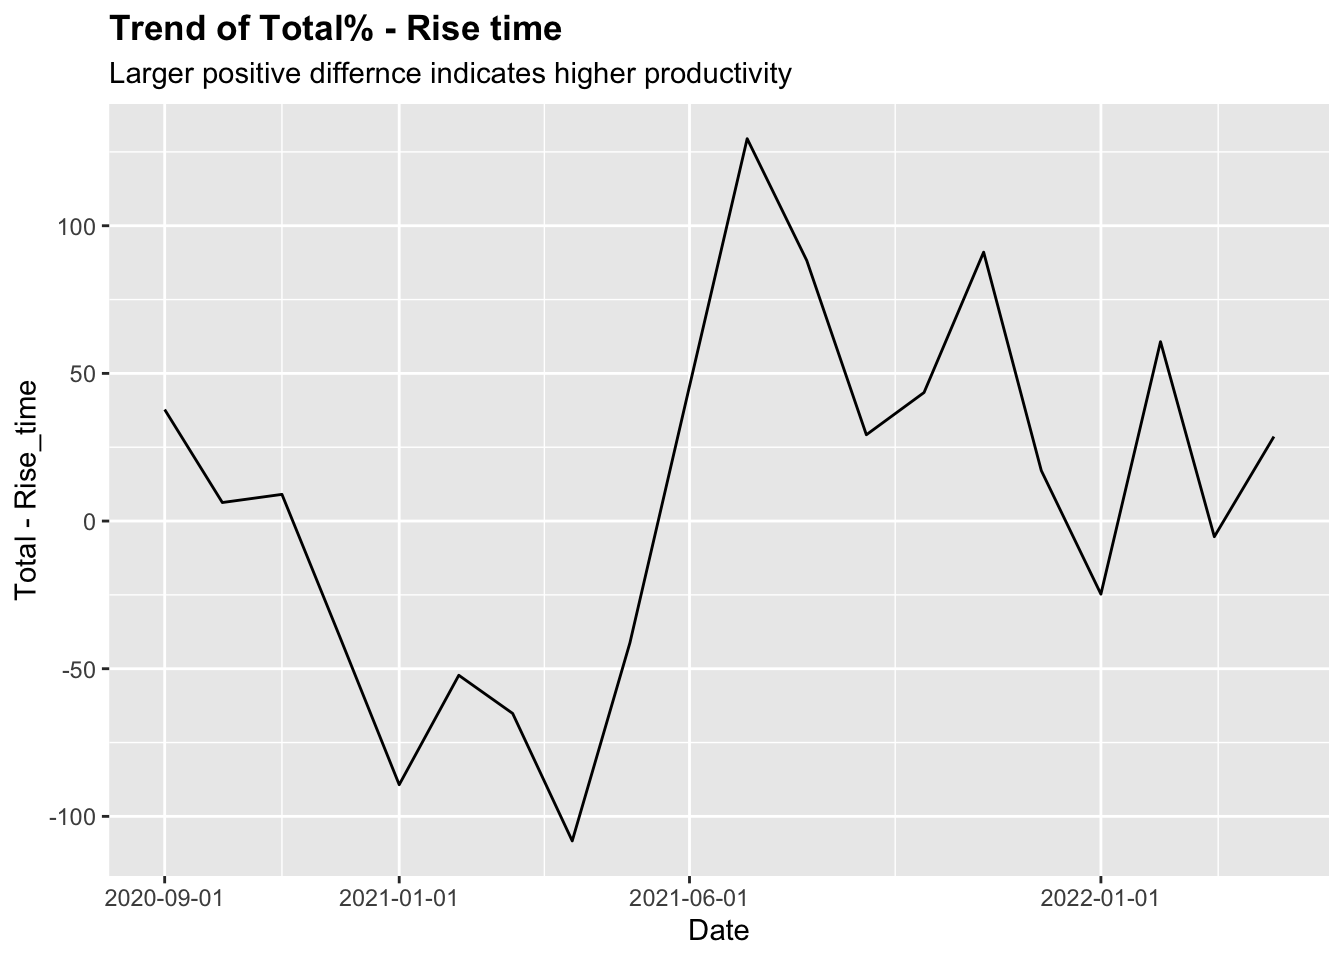
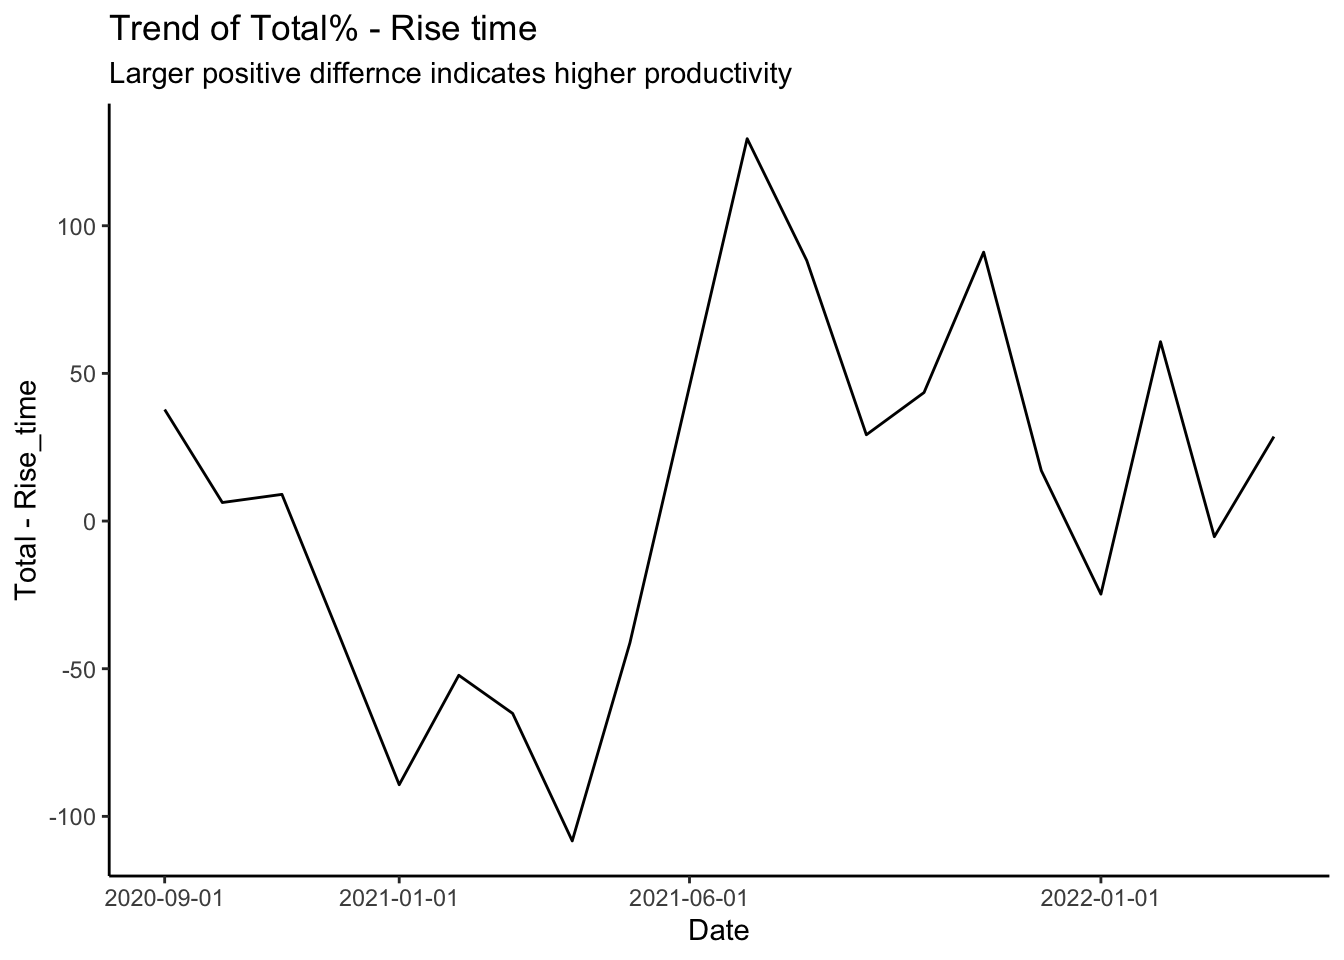
theme classic

diff --git a/selfeval_main.html b/selfeval_main.html
@@ -448,7 +448,8 @@ pairs.panels(correlation_plot, lm = TRUE)</code></pre>
   labs(title = &quot;Density Plot of Work Finished% for different School periods&quot;,
        x = &quot;Work Finished (%)&quot;)+
   theme(plot.title = element_text(face = &quot;bold&quot;)) +
-  scale_color_discrete(name = &quot;School Qtrs&quot;)</code></pre>
+  scale_color_discrete(name = &quot;School Qtrs&quot;)+
+  theme_classic()</code></pre>
 <p><img src="selfeval_main_files/figure-html/unnamed-chunk-6-1.png" width="672" /> <br><br />
 <br><br />
 <br></p>
@@ -464,7 +465,8 @@ ggplot(data = all_dat)+
   labs(title = &quot;Work finished % by week days&quot;,
        subtitle = &quot;Data: all_dat (500+ observations)&quot;,
        x = &quot;&quot;, y = &quot;Work Finished (%)&quot;)+
-  theme(plot.title = element_text(face = &quot;bold&quot;))</code></pre>
+  theme(plot.title = element_text(face = &quot;bold&quot;))+
+  theme_classic()</code></pre>
 <p><img src="selfeval_main_files/figure-html/unnamed-chunk-7-1.png" width="672" /> <br><br />
 <br></p>
 </div>
@@ -486,7 +488,8 @@ ggplot(all_dat_month)+
   theme(plot.title = element_text(face = &quot;bold&quot;)) +
   scale_x_continuous(breaks = ymd(&quot;2020-09-01&quot;, &quot;2021-01-01&quot;,&quot;2021-04-01&quot;, &quot;2021-07-01&quot;, &quot;2021-10-01&quot;,&quot;2022-01-01&quot;, &quot;2022-04-01&quot;),
                      labels=c(&quot;09/20&quot;, &quot;01/21&quot;, &quot;04/21&quot;, &quot;07/21&quot;, 
-                                &quot;10/21&quot;, &quot;01/22&quot;,&quot;04/22&quot;))</code></pre>
+                                &quot;10/21&quot;, &quot;01/22&quot;,&quot;04/22&quot;))+
+  theme_classic()</code></pre>
 <p><img src="selfeval_main_files/figure-html/unnamed-chunk-8-1.png" width="672" /></p>
 <p><br><br />
 <br></p>
@@ -499,7 +502,8 @@ ggplot(all_dat_month)+
               subtitle = &quot;Larger positive differnce indicates higher productivity&quot;)+
   theme(plot.title = element_text(face = &quot;bold&quot;)) +
   scale_x_continuous(breaks = ymd(&quot;2020-09-01&quot;, &quot;2021-01-01&quot;, &quot;2021-06-01&quot;,
-                                &quot;2022-01-01&quot;))</code></pre>
+                                &quot;2022-01-01&quot;))+
+  theme_classic()</code></pre>
 <p><img src="selfeval_main_files/figure-html/unnamed-chunk-9-1.png" width="672" /> <br></p>
 <ul>
 <li><font size="3">Note for Rise time:
@@ -649,13 +653,13 @@ rmarkdown::paged_table(pretty_lm)</code></pre>
 </ul></li>
 </ul>
 <pre class="r"><code>model &lt;- lm(work_finished ~ Screen_time + Meditation + Rise_time + Phone_pickups + 
-              Reading + Drink + Total_todo + Multiple,  data = all_dat)
+              Reading + Drink + Total_todo + Social,  data = all_dat)
 
 pretty_lm &lt;- prettify(summary(model))
 rmarkdown::paged_table(pretty_lm)</code></pre>
 <div data-pagedtable="false">
 <script data-pagedtable-source type="application/json">
-{"columns":[{"label":[" "],"name":[1],"type":["chr"],"align":["left"]},{"label":["Estimate"],"name":[2],"type":["dbl"],"align":["right"]},{"label":["CI (lower)"],"name":[3],"type":["dbl"],"align":["right"]},{"label":["CI (upper)"],"name":[4],"type":["dbl"],"align":["right"]},{"label":["Std. Error"],"name":[5],"type":["dbl"],"align":["right"]},{"label":["t value"],"name":[6],"type":["dbl"],"align":["right"]},{"label":["Pr(>|t|)"],"name":[7],"type":["chr"],"align":["left"]},{"label":["   "],"name":[8],"type":["noquote"],"align":["right"]}],"data":[{"1":"(Intercept)","2":"1.997604e-01","3":"0.0903117125","4":"3.092091e-01","5":"5.569333e-02","6":"3.5867922","7":"<0.001","8":"***"},{"1":"Screen_time","2":"-5.860220e-05","3":"-0.0001813896","4":"6.418517e-05","5":"6.248076e-05","6":"-0.9379239","7":"0.349","8":""},{"1":"Meditation","2":"1.178700e-02","3":"0.0097496004","4":"1.382440e-02","5":"1.036738e-03","6":"11.3693168","7":"<0.001","8":"***"},{"1":"Rise_time","2":"-2.037900e-04","3":"-0.0003598218","4":"-4.775830e-05","5":"7.939727e-05","6":"-2.5667135","7":"0.011","8":"*"},{"1":"Phone_pickups","2":"7.793601e-05","3":"-0.0003703018","4":"5.261738e-04","5":"2.280873e-04","6":"0.3416938","7":"0.733","8":""},{"1":"Reading","2":"2.530312e-03","3":"0.0016379954","4":"3.422628e-03","5":"4.540580e-04","6":"5.5726613","7":"<0.001","8":"***"},{"1":"Drink","2":"-4.905697e-02","3":"-0.0718848394","4":"-2.622910e-02","5":"1.161604e-02","6":"-4.2232110","7":"<0.001","8":"***"},{"1":"Total_todo","2":"4.337842e-03","3":"-0.0005697259","4":"9.245411e-03","5":"2.497232e-03","6":"1.7370600","7":"0.083","8":"."},{"1":"Multiple","2":"1.049627e-01","3":"0.0891593216","4":"1.207660e-01","5":"8.041577e-03","6":"13.0524960","7":"<0.001","8":"***"}],"options":{"columns":{"min":{},"max":[10]},"rows":{"min":[10],"max":[10]},"pages":{}}}
+{"columns":[{"label":[" "],"name":[1],"type":["chr"],"align":["left"]},{"label":["Estimate"],"name":[2],"type":["dbl"],"align":["right"]},{"label":["CI (lower)"],"name":[3],"type":["dbl"],"align":["right"]},{"label":["CI (upper)"],"name":[4],"type":["dbl"],"align":["right"]},{"label":["Std. Error"],"name":[5],"type":["dbl"],"align":["right"]},{"label":["t value"],"name":[6],"type":["dbl"],"align":["right"]},{"label":["Pr(>|t|)"],"name":[7],"type":["chr"],"align":["left"]},{"label":["   "],"name":[8],"type":["noquote"],"align":["right"]}],"data":[{"1":"(Intercept)","2":"0.5864830617","3":"0.4790888995","4":"0.6938772240","5":"5.464787e-02","6":"10.7320382","7":"<0.001","8":"***"},{"1":"Screen_time","2":"-0.0003790691","3":"-0.0005103351","4":"-0.0002478032","5":"6.679509e-05","6":"-5.6751050","7":"<0.001","8":"***"},{"1":"Meditation","2":"0.0145606478","3":"0.0122639331","4":"0.0168573625","5":"1.168691e-03","6":"12.4589391","7":"<0.001","8":"***"},{"1":"Rise_time","2":"-0.0003861481","3":"-0.0005636416","4":"-0.0002086547","5":"9.031814e-05","6":"-4.2754219","7":"<0.001","8":"***"},{"1":"Phone_pickups","2":"0.0001372521","3":"-0.0003782202","4":"0.0006527243","5":"2.622997e-04","6":"0.5232643","7":"0.601","8":""},{"1":"Reading","2":"0.0027858640","3":"0.0017436800","4":"0.0038280480","5":"5.303188e-04","6":"5.2531877","7":"<0.001","8":"***"},{"1":"Drink","2":"-0.0683266558","3":"-0.0942489707","4":"-0.0424043409","5":"1.319066e-02","6":"-5.1799289","7":"<0.001","8":"***"},{"1":"Total_todo","2":"0.0080372735","3":"0.0023169055","4":"0.0137576415","5":"2.910828e-03","6":"2.7611639","7":"0.006","8":"**"},{"1":"Social","2":"-0.0212346300","3":"-0.0302691361","4":"-0.0122001239","5":"4.597238e-03","6":"-4.6189971","7":"<0.001","8":"***"}],"options":{"columns":{"min":{},"max":[10]},"rows":{"min":[10],"max":[10]},"pages":{}}}
   </script>
 </div>
 <p><br><br />
@@ -683,7 +687,7 @@ ggplot(data = all_dat, aes(x = pred_work_finished, y = work_finished)) +
 <ul>
 <li>Systematic Error can be observed
 <ul>
-<li>NOT a perfect prediction model, but the the model is reasonable</li>
+<li>NOT a perfect prediction model, but the the model is reasonably accurate</li>
 </ul></li>
 </ul>
 <p><br></p>
@@ -707,7 +711,8 @@ ggplot(data = all_dat) +
   scale_x_continuous(breaks = ymd(&quot;2020-09-01&quot;, &quot;2021-01-01&quot;,&quot;2021-04-01&quot;, &quot;2021-07-01&quot;, &quot;2021-10-01&quot;,&quot;2022-01-01&quot;, &quot;2022-04-01&quot;),
                      labels=c(&quot;09/20&quot;, &quot;01/21&quot;, &quot;04/21&quot;, &quot;07/21&quot;, 
                                 &quot;10/21&quot;, &quot;01/22&quot;,&quot;04/22&quot;))+
-  labs(title = &quot;Time Seires&quot;, subtitle = &quot;Total (%)&quot;)</code></pre>
+  labs(title = &quot;Time Seires&quot;, subtitle = &quot;Total (%)&quot;)+
+  theme_classic()</code></pre>
 <p><img src="selfeval_main_files/figure-html/unnamed-chunk-18-1.png" width="672" /></p>
 <pre class="r"><code>myts &lt;- ts(all_dat$Total, start=c(2020, 9,1), end=c(2022, 3, 31), frequency=365)
 fit = ets(myts)

diff --git a/index.html b/index.html
@@ -296,7 +296,7 @@ $(document).ready(function () {
 </div>
 
 
-<p><span style="float:right"><strong>Last Updated Time</strong>: 2022-04-19 23:44:58</span></p>
+<p><span style="float:right"><strong>Last Updated Time</strong>: 2022-04-20 09:27:12</span></p>
 <hr />
 <p><br></p>
 <div id="self-evaluation-project" class="section level2">
